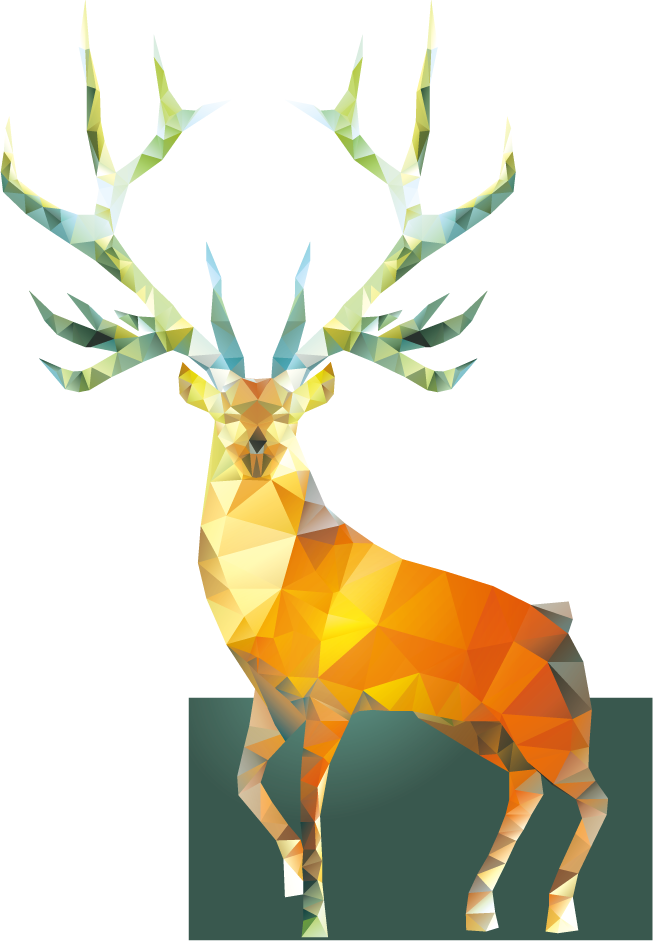
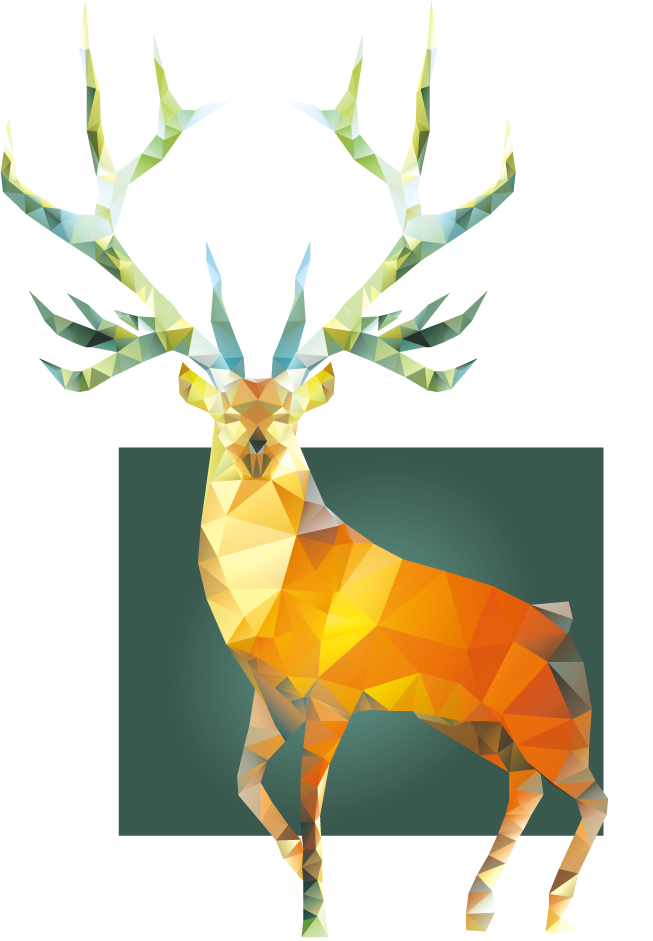
修改新底色

Changed region(s): [[0.1838, 0.4623, 1.0, 1.0]]

diff --git a/src/section/s3.vue b/src/section/s3.vue
@@ -41,7 +41,7 @@
 .s3 {
     width: 100%;
     height: size(1080);
-    background-color: #E5DBC2;
+    background-color: #3a574c;
 
     .slide-box {
         position: absolute;
@@ -61,7 +61,7 @@
                 width: size(150);
                 height: size(150);
                 border-radius: 999px;
-                border: 1px solid #000;
+                border: 1px solid #527a6b;
                 display: flex;
                 align-items: center;
                 transition: all .3s;
@@ -77,17 +77,17 @@
                 .icon {
                     width: size(180);
                     height: size(180);
-                    background: #F9EED8;
+                    background: #527a6b;
                     box-shadow: 0px 16px 24px rgba(0, 0, 0, 0.1);
-                    border-color: #F9EED8;
+                    border-color: #527a6b;
                 }
             }
 
             &:hover {
                 .icon {
-                    background: #F9EED8;
+                    background: #527a6b;
                     box-shadow: 0px 16px 24px rgba(0, 0, 0, 0.1);
-                    border-color: #F9EED8;
+                    border-color: #527a6b;
                     cursor: pointer;
                 }
 
@@ -99,7 +99,7 @@
     .number {
         font-weight: 700;
         font-size: size(400);
-        color: #F5EAD4;
+        color: #527a6b;
         position: absolute;
         top: size(30);
         line-height: size(400);
@@ -118,9 +118,10 @@
             font-weight: 700;
             font-size: size(40);
             margin-bottom: size(10);
+            color: #fff;
 
             span {
-                color: #B64F31;
+                color: #ff8667;
             }
 
             &::after {
@@ -128,7 +129,7 @@
                 height: size(1);
                 width: size(75);
                 right: 108%;
-                background-color: #000;
+                background-color: #fff;
                 position: absolute;
                 top: 50%;
                 transform: translateY(-50%);
@@ -139,7 +140,7 @@
                 height: size(1);
                 width: size(75);
                 left: 108%;
-                background-color: #000;
+                background-color: #fff;
                 position: absolute;
                 top: 50%;
                 transform: translateY(-50%);
@@ -151,6 +152,7 @@
             font-weight: 700;
             font-size: size(24);
             line-height: size(34);
+            color: #fff;
         }
     }
 
@@ -237,7 +239,7 @@
     .s3 {
         width: 100%;
         height: size-m(667);
-        background-color: #E5DBC2;
+        background-color: #3a574c;
 
         .slide-box {
             position: absolute;

diff --git a/src/section/s5.vue b/src/section/s5.vue
@@ -85,7 +85,7 @@
 .s5 {
     width: 100%;
     height: size(1230);
-    background-color: #E5DBC2;
+    background-color: #3a574c;
 
     .title {
         position: absolute;
@@ -97,14 +97,15 @@
             font-weight: 700;
             font-size: size(40);
             line-height: 150%;
+            color: #fff;
 
             span {
                 &:nth-child(1) {
-                    color: #466C4A;
+                    color: #74a894;
                 }
 
                 &:nth-child(2) {
-                    color: #B64F31;
+                    color: #ff8667;
                 }
             }
         }
@@ -114,6 +115,7 @@
             font-size: size(24);
             line-height: size(34);
             margin-bottom: size(45);
+            color: #fff;
         }
 
         .t3 {
@@ -122,7 +124,7 @@
             line-height: 150%;
             letter-spacing: size(.05);
             width: size(1035);
-            color: #000;
+            color: #fff;
 
         }
     }
@@ -379,7 +381,7 @@
 
             .t1 {
                 font-size: size-m(24.5);
-                color: #B64F31;
+                color: #fff;
             }
 
             .t2 {
@@ -723,31 +725,31 @@ const timelines = ref([
         targetImg: '99',
         year: '',
         name: '北投',
-        content: ['三合段案', '大業段案']
+        content: ['北投捷運站案', '奇岩捷運站案']
     },
     {
         targetImg: '99',
         year: '',
         name: '內湖',
-        content: ['東湖六小都更案']
+        content: ['葫洲捷運站案']
     },
     {
         targetImg: '99',
         year: '',
         name: '大直',
-        content: ['金泰段商辦案']
+        content: ['大直美麗華案']
     },
     {
         targetImg: '99',
         year: '',
         name: '士林',
-        content: ['中山北路', '士林官邸案']
+        content: ['士林官邸案']
     },
     {
         targetImg: '99',
         year: '',
         name: '淡水',
-        content: ['新市鎮案']
+        content: ['海景住宅案']
     },
 ])
 

diff --git a/src/section/order.vue b/src/section/order.vue
@@ -1,13 +1,13 @@
 <template>
-  <div class="order relative bg-[#E5DBC2] text-center">
+  <div class="order relative bg-[#3a574c] text-center">
     <div class="order-section font-['noto_sans_tc']">
       <!-- Title -->
       <!-- <div class="order-title text-center">{{ info.order.title }}</div> -->
 
       <!-- Title Image -->
-      <img v-if="$isMobile()" class="order-title-img" src="@/section/form/titleImg.svg" alt="長耀里" srcset=""
+      <img v-if="$isMobile()" class="order-title-img" src="@/section/form/logo_n.svg" alt="長耀里" srcset=""
         data-aos="fade" data-aos-duration="1000">
-      <img v-else class="order-title-img" src="@/section/form/titleImg.svg" alt="長耀里" srcset="" data-aos="fade"
+      <img v-else class="order-title-img" src="@/section/form/logo_n.svg" alt="長耀里" srcset="" data-aos="fade"
         data-aos-duration="1000">
 
       <!-- Custom Image -->
@@ -16,7 +16,6 @@
       <img v-if="!$isMobile()" class="rb_leaf" src="@/section/form/leaf_r.png" alt="" srcset="">
       <img v-else class="rb_leaf" src="@/section/form/leaf_r_m.png" alt="" srcset="">
       <img class="buck" src="@/section/s1/buck.png" alt="" srcset="">
-      <img class="buck-e" src="@/section/s1/buck-e.gif" alt="" srcset="">
 
 
       <!-- Form -->
@@ -56,7 +55,7 @@
           class="checkbox bg-white rounded-md" />
         <p>
           本人知悉並同意<label for="policy-modal"
-            class="modal-button text-black font-bold cursor-pointer hover:opacity-70">「個資告知事項聲明」</label>內容
+            class="modal-button  font-bold cursor-pointer hover:opacity-70">「個資告知事項聲明」</label>內容
         </p>
       </div>
       <Policy />
@@ -221,7 +220,7 @@
 
   .control {
     font-size: size(16);
-    color: #000;
+    color: #fff;
     position: relative;
   }
 }

diff --git a/src/section/s1.vue b/src/section/s1.vue
@@ -10,6 +10,7 @@
           v-else>｜</span>18-29坪 入主富貴公園</div>
     </div>
       <img class="buck" src="@/section/s1/buck.png" alt="" srcset="">
+      <div class="buckbbg" v-if="!$isMobile()"></div>
       <div class="linestyle"></div>
     <lazy-component>
       <img class="circle" src="@/section/s1/circle.png" alt="" srcset="">
@@ -151,6 +152,16 @@
     right: size(50);
     border-radius: size(30);
     border: #fff 1px solid;
+  }
+  .buckbbg{
+    position: absolute;
+    width: size(100);
+    height:size(80);
+    bottom: size(30);
+    right: size(902);
+    background: #3a574c;
+    z-index: 3;
+
   }
 
   .buck-e {

diff --git a/src/section/form/contactInfo.vue b/src/section/form/contactInfo.vue
@@ -114,7 +114,7 @@
     gap: size(20);
 
     .contact-item {
-      background-color: #000;
+      background-color: #ad4d31;
       color: #fff;
       width: 100%;
       padding: 0 size(55);
@@ -129,7 +129,7 @@
       cursor: pointer;
 
       &:hover {
-        background-color: rgb(73, 73, 73);
+        background-color: #8d391f;
         color: #fff;
 
         img {
